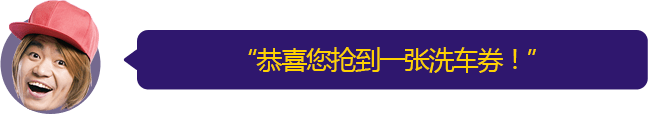
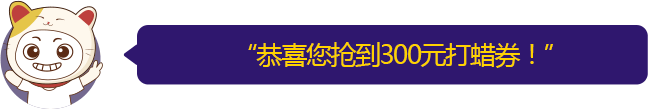
车点点文案修改20170105

diff --git a/activity/chediandian20161101/sass/index.scss b/activity/chediandian20161101/sass/index.scss
@@ -95,15 +95,15 @@ a {
     }
     .content {
         .banner {
-            background-image: url("../images/bg-banner01.png");
+            background-image: url("../images/bg-banner01.png?v=2017010501");
             background-size: cover;
             background-repeat: no-repeat;
             width: 100%;
-            height: pxToRem(526px);
-            padding-top: pxToRem(10px);
+            height: pxToRem(525px);
+            padding-top: pxToRem(34px);
             box-sizing: border-box;
             .banner-people {
-                background-image: url("../images/banner-people.png");
+                background-image: url("../images/banner-people.png?v=2017010501");
                 background-size: contain;
                 background-repeat: no-repeat;
                 background-position: 50% 50%;
@@ -114,7 +114,7 @@ a {
             .banner-md {
                 position: relative;
                 .coupon {
-                    background-image: url("../images/icon-coupon.png");
+                    background-image: url("../images/icon-coupon.png?v=2017010501");
                     background-size: contain;
                     background-repeat: no-repeat;
                     background-position: 50% 50%;
@@ -130,7 +130,7 @@ a {
                     position: relative;
                     z-index: 999;
                     margin: auto;
-                    width: pxToRem(534px);
+                    width: pxToRem(619px);
                     margin-top: pxToRem(40px);
                     .icon-text01 {
                         background-image: url("../images/icon-text01.png");
@@ -143,12 +143,12 @@ a {
                         animation: zoomIn .8s both;
                     }
                     .icon-text02 {
-                        background-image: url("../images/icon-text02.png");
+                        background-image: url("../images/icon-text02.png?v=2017010501");
                         background-size: contain;
                         background-repeat: no-repeat;
                         background-position: 50% 50%;
-                        width: pxToRem(534px);
-                        height: pxToRem(192px);
+                        width: pxToRem(619px);
+                        height: pxToRem(122px);
                         margin: auto;
                         animation: slideInUp .8s both;
                     }
@@ -164,7 +164,7 @@ a {
             &.registe-area-on {
                 height: pxToRem(990px);
                 .registe-area {
-                    background-image: url("../images/bg-redPackage-on.png");
+                    background-image: url("../images/bg-redPackage-on.png?v=2017010501");
                     height: pxToRem(1020px);
                     .phone {
                         width: pxToRem(642px) !important;
@@ -175,7 +175,7 @@ a {
                 }
             }
             .registe-area {
-                background-image: url("../images/bg-redPackage-off.png");
+                background-image: url("../images/bg-redPackage-off.png?v=2017010501");
                 background-size: contain;
                 background-repeat: no-repeat;
                 background-position: 50% 50%;
@@ -295,7 +295,7 @@ a {
                     }
                 }
                 .btn-registe {
-                    background: url(../images/btn-registe.png);
+                    background: url("../images/btn-registe.png?v=2017010501");
                     background-size: contain;
                     background-repeat: no-repeat;
                     background-position: 50% 50%;
@@ -332,7 +332,7 @@ a {
             }
         }
     }
-    .ad-wrapper {
+    /* .ad-wrapper {
         position: fixed;
         bottom: 0;
         left: 0;
@@ -356,7 +356,7 @@ a {
                 display: block;
             }
         }
-    }
+    } */
 }
 
 .show {

diff --git a/activity/chediandian20161101/html/index.html b/activity/chediandian20161101/html/index.html
@@ -54,7 +54,7 @@
 			<div class="content-md">
 				<div class="registe-area">
 					<div class="phone input-area">
-						<input class="phone-input" placeholder="输入手机号，领取洗车券" type="text" name="phone" maxlength="11"  />
+						<input class="phone-input" placeholder="输入手机号，领取打蜡券" type="text" name="phone" maxlength="11"  />
 						<div class="tips-error">
 							手机号码格式不正确 / 手机号码不能为空
 						</div>
@@ -92,7 +92,7 @@
 				<div class="md-footer"></div>
 			</div>
 			<div class="footer-label">
-				<div class="label01">完成首投即送最高5张洗车券<br/>详细领取流程请咨询团贷网:400-641-0888。</div>
+				<div class="label01">完成首投即送最高300元打蜡券<br/>详细领取流程请咨询团贷网:400-641-0888。</div>
 				<div class="label02">投资有风险，入市需谨慎，最终收益以实际为准</div>
 			</div>
 		</div>
@@ -106,12 +106,12 @@
            </div>
 		</div>
 		<!-- 1218广告位 -->
-		<div class="ad-wrapper">
+		<!-- <div class="ad-wrapper">
 			<div class="icon-close"></div>
 			<a class="ad" href="https://hd.tuandai.com/weixin/20161218YR/index.aspx">
 				<img src="../images/icon-ad1218.png" />
 			</a>
-		</div>
+		</div> -->
 	</div>
 
 </body>
